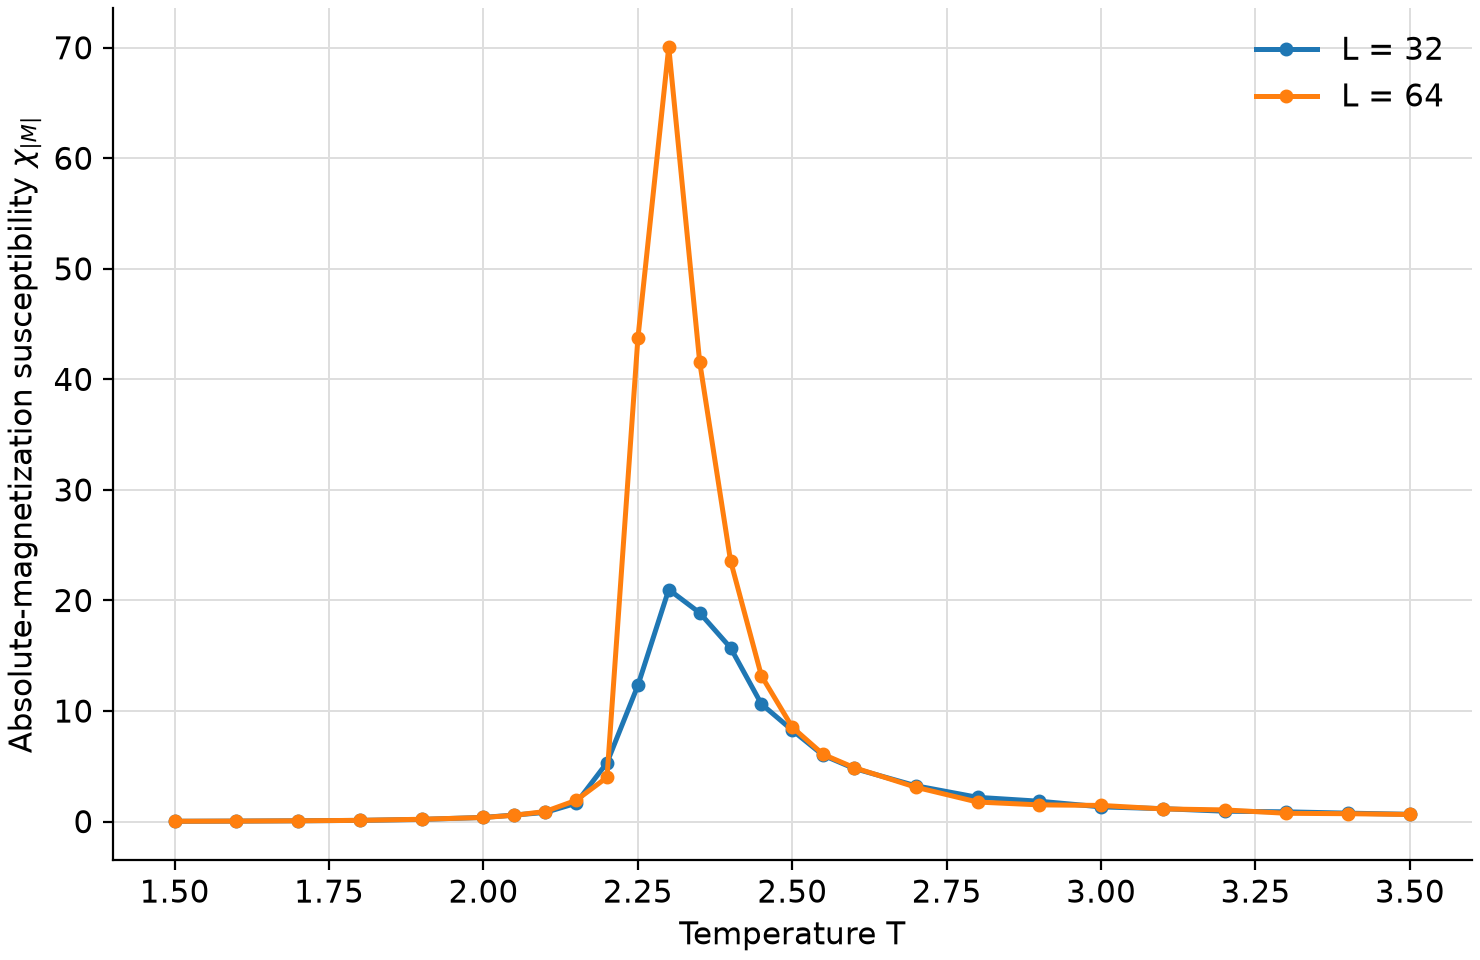
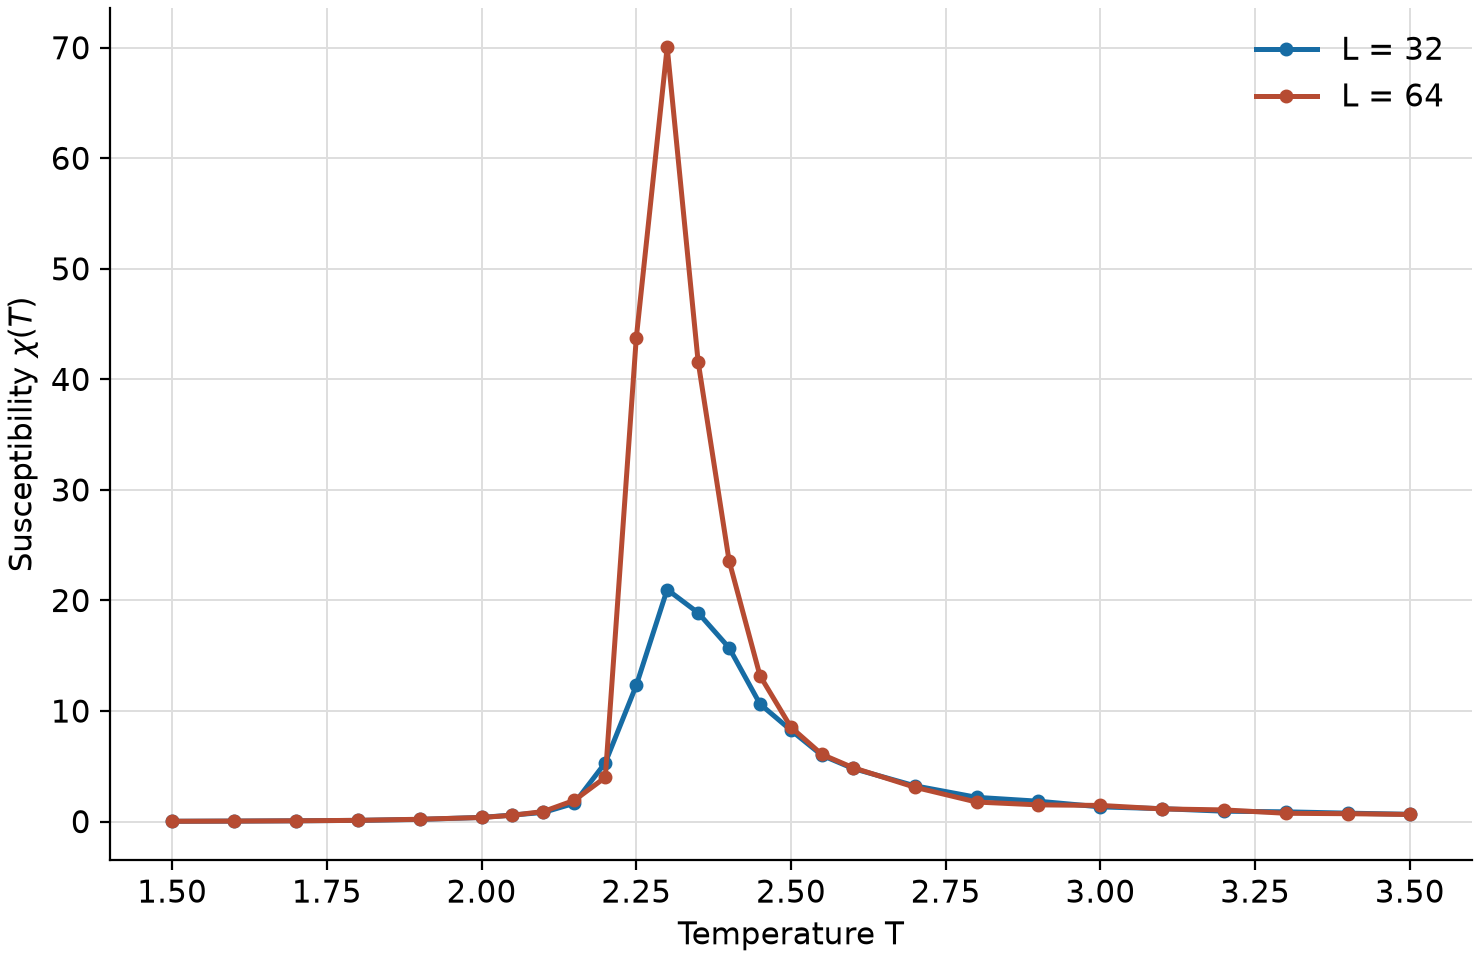
Compare Ising magnetization with Onsager curve

diff --git a/week3/plot_observables.py b/week3/plot_observables.py
@@ -2,6 +2,7 @@
 
 import json
 from collections import defaultdict
+from math import log, sinh, sqrt
 from pathlib import Path
 
 import matplotlib
@@ -36,24 +37,29 @@ for (size, temperature), (count, sum_abs_m, sum_m2) in samples.items():
     series[size].append((temperature, mean_abs_m, susceptibility))
 
 plt.rcParams.update({"font.size": 11, "axes.spines.top": False, "axes.spines.right": False})
+colors = {32: "#176ca4", 64: "#b64b32"}
 
-def draw(column, ylabel, output):
-    fig, axis = plt.subplots(figsize=(7.4, 4.8), layout="constrained")
-    for size, values in sorted(series.items()):
-        values.sort()
-        axis.plot(
-            [value[0] for value in values],
-            [value[column] for value in values],
-            marker="o",
-            markersize=4,
-            linewidth=1.8,
-            label=f"L = {size}",
-        )
-    axis.set(xlabel="Temperature T", ylabel=ylabel)
-    axis.grid(color="#dedede", linewidth=0.7)
-    axis.legend(frameon=False)
-    fig.savefig(root / "evidence" / output, dpi=200)
+values = sorted(series[64])
+temperatures = [values[0][0] + i * (values[-1][0] - values[0][0]) / 499 for i in range(500)]
+critical = 2 / log(1 + sqrt(2))
+onsager = [(1 - sinh(2 / temperature) ** -4) ** (1 / 8) if temperature < critical else 0
+           for temperature in temperatures]
+fig, axis = plt.subplots(figsize=(7.4, 4.8), layout="constrained")
+axis.plot([value[0] for value in values], [value[1] for value in values], marker="o",
+          markersize=4, linewidth=1.8, color=colors[64], label="Metropolis, L = 64")
+axis.plot(temperatures, onsager, color="#333333", linestyle="--", linewidth=1.8,
+          label=r"Onsager, $L \to \infty$")
+axis.set(xlabel="Temperature T", ylabel=r"Mean absolute magnetization $\langle |M| \rangle$")
+axis.grid(color="#dedede", linewidth=0.7)
+axis.legend(frameon=False)
+fig.savefig(root / "evidence" / "magnetization.png", dpi=200)
 
-
-draw(1, r"Mean absolute magnetization $\langle |M| \rangle$", "magnetization.png")
-draw(2, r"Absolute-magnetization susceptibility $\chi_{|M|}$", "susceptibility.png")
+fig, axis = plt.subplots(figsize=(7.4, 4.8), layout="constrained")
+for size, values in sorted(series.items()):
+    values.sort()
+    axis.plot([value[0] for value in values], [value[2] for value in values], marker="o",
+              markersize=4, linewidth=1.8, color=colors[size], label=f"L = {size}")
+axis.set(xlabel="Temperature T", ylabel=r"Susceptibility $\chi(T)$")
+axis.grid(color="#dedede", linewidth=0.7)
+axis.legend(frameon=False)
+fig.savefig(root / "evidence" / "susceptibility.png", dpi=200)
